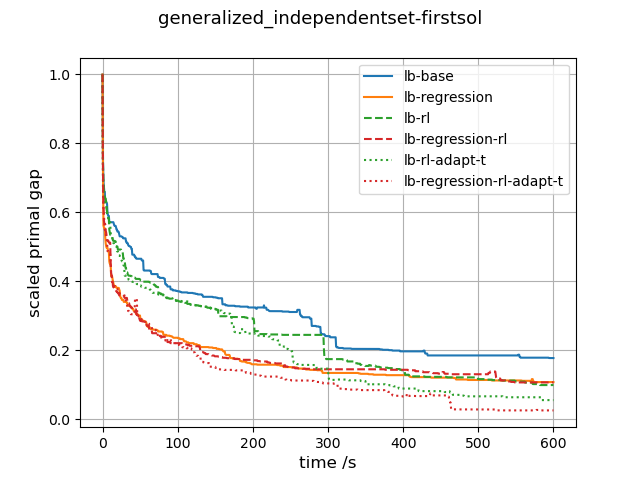
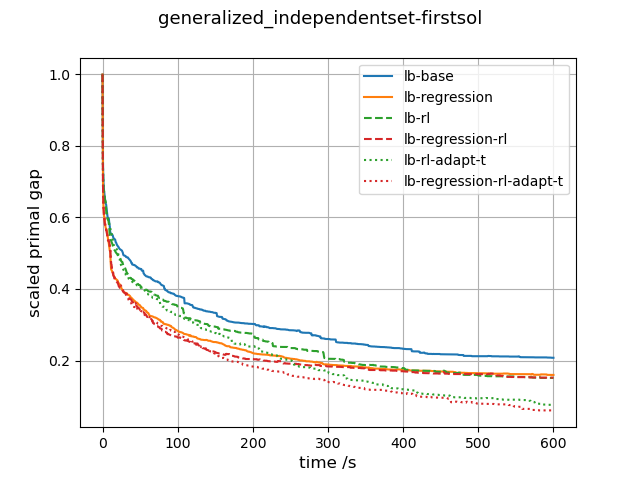
plot hybrid algo with adapting t node limit

diff --git a/evaluation_scip_baseline.py b/evaluation_scip_baseline.py
@@ -1,10 +1,23 @@
 import ecole
 import numpy as np
 import pyscipopt
-from mllocalbranch_fromfiles import RlLocalbranch
+import argparse
+from mllocalbranch_fromfiles import MlLocalbranch
 from utility import instancetypes, instancesizes, incumbent_modes, lbconstraint_modes
 import torch
 import random
+
+# Argument setting
+parser = argparse.ArgumentParser()
+parser.add_argument('--regression_model_path', type = str, default='./result/saved_models/regression/trained_params_mean_setcover-independentset-combinatorialauction_asymmetric_firstsol_k_prime_epoch163.pth')
+parser.add_argument('--rl_model_path', type = str, default='./result/saved_models/rl/reinforce/setcovering/checkpoint_trained_reward3_simplepolicy_rl4lb_reinforce_trainset_setcovering-small_lr0.01_epochs7.pth')
+
+args = parser.parse_args()
+
+regression_model_path = args.regression_model_path
+rl_model_path = args.rl_model_path
+print(regression_model_path)
+print(rl_model_path)
 
 seed = 100
 torch.manual_seed(seed)
@@ -20,7 +33,7 @@ instance_size = instancesizes[0]
 lbconstraint_mode = 'symmetric'
 samples_time_limit = 3
 
-total_time_limit = 600
+total_time_limit = 60
 node_time_limit = 10
 
 reset_k_at_2nditeration = True
@@ -34,14 +47,14 @@ l = [3, 4, 1]
 # for lr in lr_list:
 #     print('learning rate = ', lr)
 #     print('epsilon = ', epsilon)
-for i in range(3, 4):
+for i in range(4, 51):
     instance_type = instancetypes[i]
     if instance_type == instancetypes[0]:
         lbconstraint_mode = 'asymmetric'
     else:
         lbconstraint_mode = 'symmetric'
 
-    for j in range(0, 2):
+    for j in range(1, 2):
         incumbent_mode = incumbent_modes[j]
 
         for k in range(0, 2):
@@ -52,7 +65,7 @@ for i in range(3, 4):
             print(lbconstraint_mode)
 
 
-            reinforce_localbranch = RlLocalbranch(instance_type, instance_size, lbconstraint_mode, incumbent_mode, seed=seed)
+            ml_localbranch = MlLocalbranch(instance_type, instance_size, lbconstraint_mode, incumbent_mode, seed=seed)
 
             # reinforce_localbranch.train_agent(train_instance_size='-small', total_time_limit=total_time_limit,
             #                                   node_time_limit=node_time_limit, reset_k_at_2nditeration=reset_k_at_2nditeration,
@@ -60,17 +73,14 @@ for i in range(3, 4):
 
             # reinforce_localbranch.evaluate_localbranching(evaluation_instance_size=instance_size, total_time_limit=total_time_limit, node_time_limit=node_time_limit, reset_k_at_2nditeration=reset_k_at_2nditeration)
 
-            # reinforce_localbranch.evaluate_localbranching_rlactive(
-            #     evaluation_instance_size=instance_size,
-            #     total_time_limit=total_time_limit,
-            #     node_time_limit=node_time_limit,
-            #     reset_k_at_2nditeration=reset_k_at_2nditeration,
-            #     lr=lr
-            #                                                    )
+            if not ((i == 3 and k == 1) or (i == 4 and k == 1)):
+                ml_localbranch.evaluate_scip_baseline(
+                    evaluation_instance_size=test_instance_size,
+                    total_time_limit=total_time_limit,
+                    node_time_limit=node_time_limit
+                                                                   )
 
-            if i< 3:
-                reinforce_localbranch.primal_integral(test_instance_size=instance_size, total_time_limit=total_time_limit, node_time_limit=node_time_limit)
-            elif (i == 3 and k == 0) or (i == 4 and k == 0):
-                reinforce_localbranch.primal_integral_hybrid_03(test_instance_size=instance_size, total_time_limit=total_time_limit, node_time_limit=node_time_limit)
+            # reinforce_localbranch.primal_integral(test_instance_size=instance_size, total_time_limit=total_time_limit, node_time_limit=node_time_limit)
+            # reinforce_localbranch.primal_integral_03(test_instance_size=instance_size, total_time_limit=total_time_limit, node_time_limit=node_time_limit)
 
             # regression_init_k.solve2opt_evaluation(test_instance_size='-small')

diff --git a/test_integrility_grip.py b/test_integrility_grip.py
@@ -1,0 +1,87 @@
+import ecole
+import numpy as np
+import pyscipopt
+import argparse
+from mllocalbranch_fromfiles import RegressionInitialK
+from utility import instancetypes, instancesizes, incumbent_modes, lbconstraint_modes, regression_mode
+
+# Argument setting
+parser = argparse.ArgumentParser()
+parser.add_argument('--regression_model_path', type = str, default='./result/saved_models/regression/trained_params_mean_setcover-independentset-combinatorialauction_asymmetric_firstsol_k_prime_epoch163.pth')
+args = parser.parse_args()
+
+regression_model_path = args.regression_model_path
+print(regression_model_path)
+# instance_type = instancetypes[1]
+instance_size = instancesizes[0]
+# incumbent_mode = 'firstsol'
+lbconstraint_mode = 'symmetric'
+samples_time_limit = 10
+node_time_limit = 10
+
+total_time_limit = 60
+reset_k_at_2nditeration = True
+
+merged = False
+baseline = True
+seed = 100
+lr = 0.0001
+print('learning rate:', lr)
+
+
+
+
+
+
+for i in range(4, 5):
+    instance_type = instancetypes[i]
+    if instance_type == instancetypes[0]:
+        lbconstraint_mode = 'asymmetric'
+    else:
+        lbconstraint_mode = 'symmetric'
+    for j in range(0, 1):
+        incumbent_mode = incumbent_modes[j]
+        for k in range(0, 1):
+            test_instance_size = instancesizes[k]
+
+            print(instance_type + test_instance_size)
+            print(incumbent_mode)
+            print(lbconstraint_mode)
+
+
+
+            print('merged :,', merged)
+            print('baseline :', baseline)
+
+            regression_init_k = RegressionInitialK(instance_type, test_instance_size, lbconstraint_mode, incumbent_mode, seed=seed)
+
+            regression_init_k.generate_k_samples(t_limit=samples_time_limit, instance_size=test_instance_size)
+
+            # regression_init_k.two_examples()
+            # regression_init_k.generate_regression_samples_k_prime(t_limit=samples_time_limit, instance_size=instance_size)
+
+            # regression_init_k.execute_regression_k_prime(lr=0.00001, n_epochs=201) # setcovering small: lr=0.00002; capa-small: samne; independentset-small: first: lr=0.00002, root: lr=0.00003
+
+            # regression_init_k.execute_regression_mergedatasets(lr=lr, n_epochs=201)  # setcovering small: lr=0.00002; capa-small: samne; independentset-small: first: lr=0.00002, root: lr=0.00003
+
+            # regression_init_k.solve2opt_evaluation(test_instance_size='-small')
+
+            # regression_init_k.primal_integral_k_prime(test_instance_size=test_instance_size,
+            #                                           total_time_limit=total_time_limit,
+            #                                           node_time_limit=node_time_limit)
+
+            # regression_init_k.primal_integral_k_prime_012(test_instance_size=test_instance_size,
+            #                                              total_time_limit=total_time_limit,
+            #                                              node_time_limit=node_time_limit)
+
+            # regression_init_k.primal_integral_k_prime_2(test_instance_size=test_instance_size, total_time_limit=total_time_limit, node_time_limit=node_time_limit)
+
+            # regression_init_k.primal_integral_k_prime_3(test_instance_size=test_instance_size,
+            #                                             total_time_limit=total_time_limit,
+            #                                             node_time_limit=node_time_limit)
+
+            # regression_init_k.primal_integral_k_prime_3_sepa(test_instance_size=test_instance_size,
+            #                                                 total_time_limit=total_time_limit,
+            #                                                 node_time_limit=node_time_limit)
+
+            # regression_init_k.primal_integral_k_prime_miplib_bianry39(test_instance_size=test_instance_size, total_time_limit=total_time_limit, node_time_limit=node_time_limit)

diff --git a/mllocalbranch_fromfiles.py b/mllocalbranch_fromfiles.py
@@ -8432,11 +8432,11 @@ class RlLocalbranch(MlLocalbranch):
                     data = pickle.load(f)
                 objs_reinforce_hybrid, times_reinforce_hybrid, objs_regresison_reinforce_hybrid, times_regression_reinforce_hybrid = data  # objs contains objs of a single instance of a lb test
 
-                # filename = f'{directory_lb_test_hybrid_2}lb-test-{instance_name}.pkl'
-                #
-                # with gzip.open(filename, 'rb') as f:
-                #     data = pickle.load(f)
-                # objs_reinforce_hybrid_2, times_reinforce_hybrid_2, objs_regresison_reinforce_hybrid_2, times_regression_reinforce_hybrid_2 = data  # objs contains objs of a single instance of a lb test
+                filename = f'{directory_lb_test_hybrid_2}lb-test-{instance_name}.pkl'
+
+                with gzip.open(filename, 'rb') as f:
+                    data = pickle.load(f)
+                objs_reinforce_hybrid_2, times_reinforce_hybrid_2, objs_regresison_reinforce_hybrid_2, times_regression_reinforce_hybrid_2 = data  # objs contains objs of a single instance of a lb test
 
 
 
@@ -8454,6 +8454,8 @@ class RlLocalbranch(MlLocalbranch):
                 # with gzip.open(filename, 'rb') as f:
                 #     data = pickle.load(f)
                 # objs_k_prime, times_k_prime = data  # objs contains objs of a single instance of a lb test
+
+                instance_name = self.instance_type + '-' + str(i) + '_transformed'  # instance 100-199
 
                 # test from k_prime_merged
                 filename = f'{directory_lb_test_k_prime_merged}lb-test-{instance_name}.pkl'
@@ -8495,8 +8497,8 @@ class RlLocalbranch(MlLocalbranch):
                 objs_regresison_reinforce_hybrid = np.array(objs_regresison_reinforce_hybrid).reshape(-1)
                 times_regression_reinforce_hybrid = np.array(times_regression_reinforce_hybrid).reshape(-1)
 
-                # objs_reinforce_hybrid_2 = np.array(objs_reinforce_hybrid_2).reshape(-1)
-                # objs_regresison_reinforce_hybird_2 = np.array(objs_regresison_reinforce_hybrid_2).reshape(-1)
+                objs_reinforce_hybrid_2 = np.array(objs_reinforce_hybrid_2).reshape(-1)
+                objs_regresison_reinforce_hybrid_2 = np.array(objs_regresison_reinforce_hybrid_2).reshape(-1)
 
                 objs = np.array(objs).reshape(-1)
                 times = np.array(times).reshape(-1)
@@ -8514,7 +8516,7 @@ class RlLocalbranch(MlLocalbranch):
                 objs_k_prime_merged_2 = np.array(objs_k_prime_merged_2).reshape(-1)
 
                 # a = [objs_regression.min(), objs_regresison_reinforce.min(), objs_reset_vanilla_2.min(), objs_reset_imitation_2.min()]
-                a = [objs_reinforce.min(), objs_regresison_reinforce.min(), objs_reinforce_2.min(), objs_regresison_reinforce_2.min(), objs.min(), objs_2.min(), objs_k_prime_merged.min(), objs_k_prime_merged_2.min(), objs_reinforce_hybrid.min(), objs_regresison_reinforce_hybrid.min()] # , objs_reinforce_hybrid_2.min(), objs_regresison_reinforce_hybrid_2.min(),
+                a = [objs_reinforce.min(), objs_regresison_reinforce.min(), objs_reinforce_2.min(), objs_regresison_reinforce_2.min(), objs.min(), objs_2.min(), objs_k_prime_merged.min(), objs_k_prime_merged_2.min(), objs_reinforce_hybrid.min(), objs_regresison_reinforce_hybrid.min(), objs_reinforce_hybrid_2.min(), objs_regresison_reinforce_hybrid_2.min()] #
                 obj_opt = np.amin(a)
 
                 # lb-baseline:
